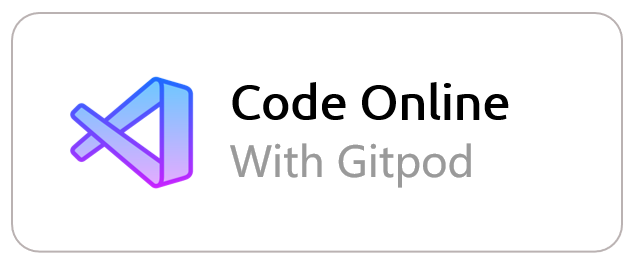
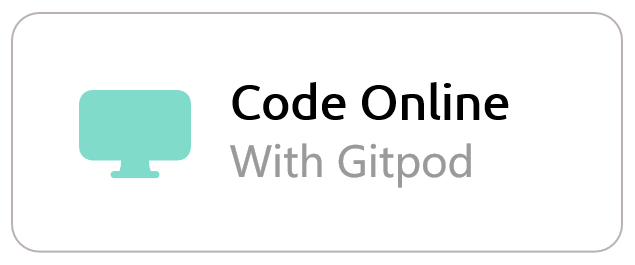
Update buttons

Changed region(s): [[0.0898, 0.2717, 0.3291, 0.7245]]

diff --git a/profile/README.md b/profile/README.md
@@ -1,6 +1,5 @@
 ## 🚩 Shotcuts
-<p align="center"><a href="https://github.com/orgs/katorlys/repositories"><img width="24%" src="Media/Repos.png"></a> <a target="_blank" href="https://katorly.gitee.io/lab/projects.html"><img width="24%" src="Media/Trend.png"></a> <a target="_blank" href="https://katorly.gitbook.io"><img width="24%" src="Media/Docs.png"></a> <a target="_blank" href="https://gitpod.io/workspaces"><img width="24%" src="Media/CodeOL.png"></a></p>
-About us? <a target="_blank" href="https://katorly.gitee.io/lab">Click here</a><br>
+<p align="center"><a href="https://katorly.gitee.io/lab"><img width="24%" src="https://cdn.jsdelivr.net/gh/katorlys/.github/Media/Home.png"></a> <a target="_blank" href="https://katorly.gitbook.io"><img width="24%" src="https://cdn.jsdelivr.net/gh/katorlys/.github/Media/Docs.png"></a> <a target="_blank" href="https://github.com/orgs/katorlys/repositories"><img width="24%" src="https://cdn.jsdelivr.net/gh/katorlys/.github/Media/Repos.png"></a> <a target="_blank" href="https://gitpod.io/workspaces"><img width="24%" src="https://cdn.jsdelivr.net/gh/katorlys/.github/Media/CodeOL.png"></a></p>
 
 ## 📈Statistics
 <a href="https://github.com/katorlys"><img src="https://badges.pufler.dev/visits/katorlys/.github?style=for-the-badge&color=85ABFF"></a> <a href="https://github.com/katorlys"><img src="https://badges.pufler.dev/repos/katorlys?style=for-the-badge&color=EE7379"></a> <a href="https://github.com/katorlys"><img src="https://badges.pufler.dev/years/katorlys?style=for-the-badge&color=GREEN"></a><br>
